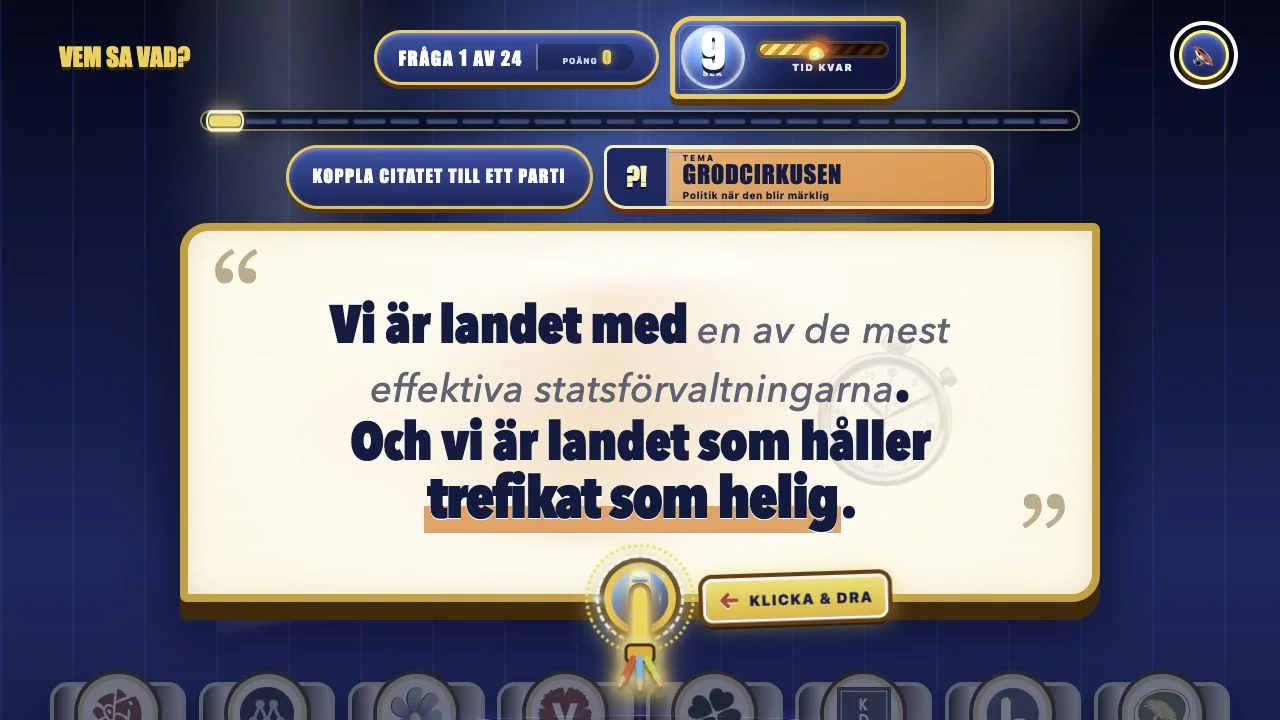
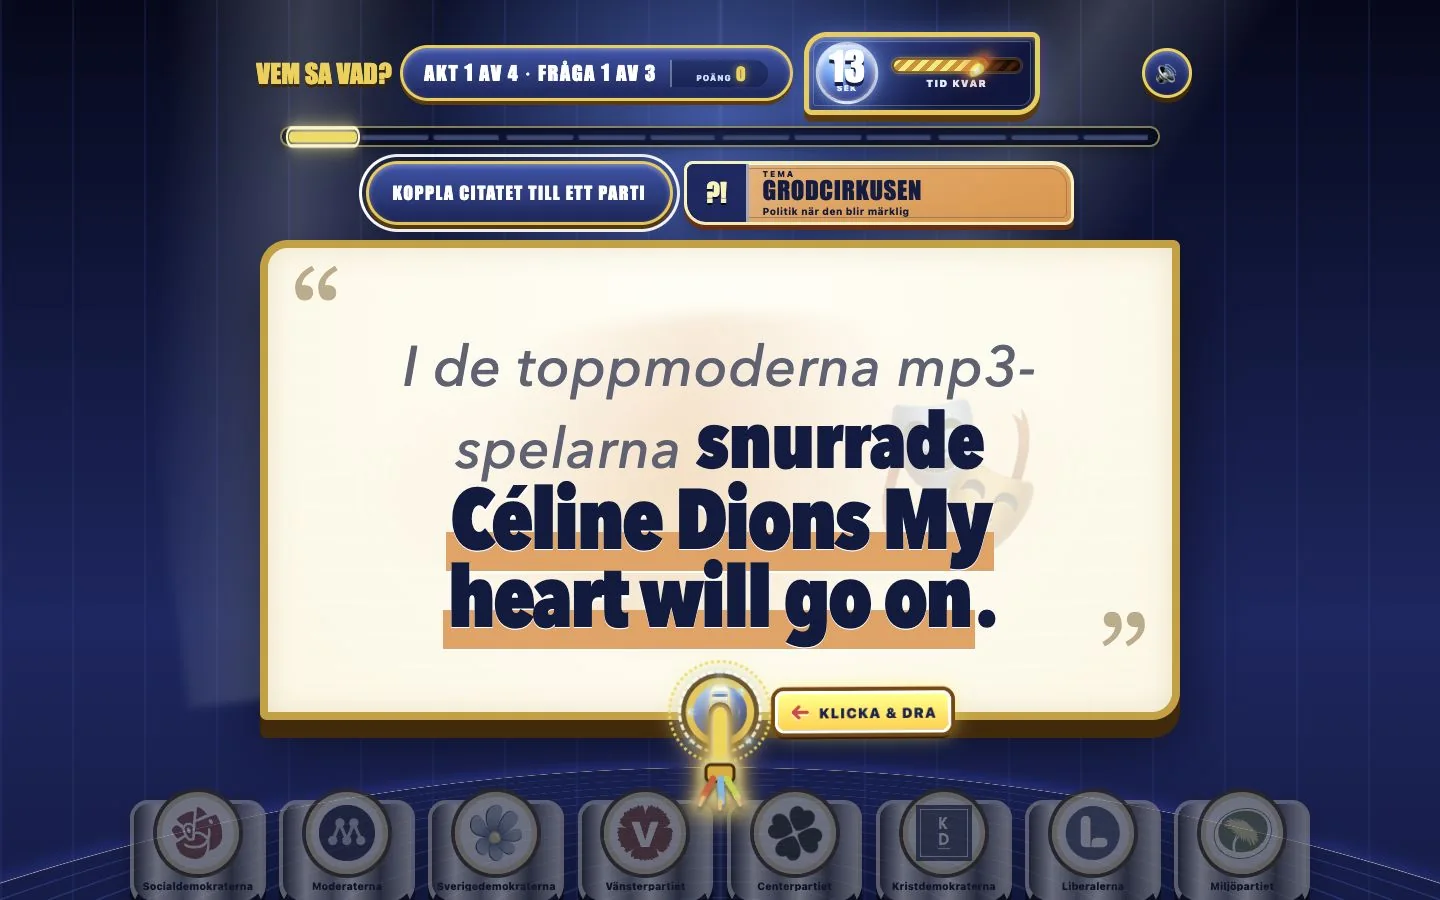
Refresh README game screenshots

diff --git a/README.md b/README.md
@@ -8,7 +8,7 @@
 
 > 12 questions · 4 acts · category wheel · local high score · 20 seconds per quote
 
-![The colourful Vem sa vad? opening stage](docs/screenshots/startscen.webp)
+![The grand Vem sa vad? marquee towers over the Election Special 2026 opening stage](docs/screenshots/startscen.webp)
 
 | Connect the quote | Face the consequences |
 | --- | --- |
